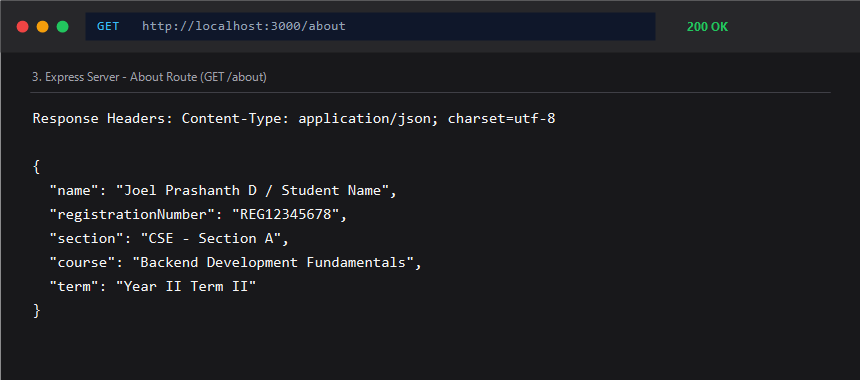
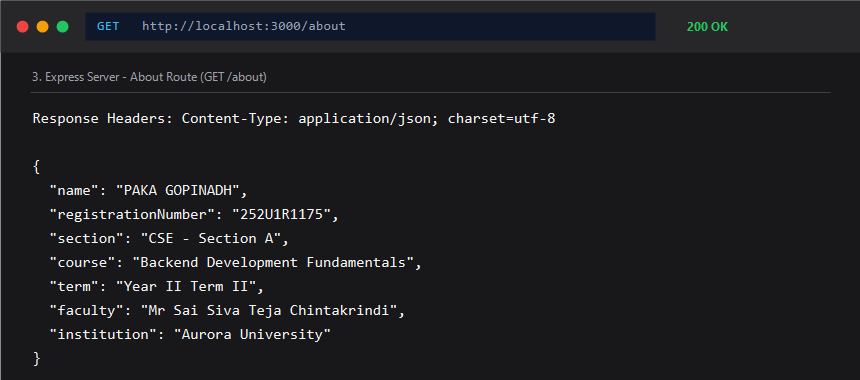
Update student name, registration number, faculty, and institution details

diff --git a/lab-01/index.js b/lab-01/index.js
@@ -19,11 +19,13 @@ app.get('/', (req, res) => {
 // Route: GET /about - JSON with name and section
 app.get('/about', (req, res) => {
   res.status(200).json({
-    name: 'Joel Prashanth D / Student Name',
-    registrationNumber: 'REG12345678',
+    name: 'PAKA GOPINADH',
+    registrationNumber: '252U1R1175',
     section: 'CSE - Section A',
     course: 'Backend Development Fundamentals',
-    term: 'Year II Term II'
+    term: 'Year II Term II',
+    faculty: 'Mr Sai Siva Teja Chintakrindi',
+    institution: 'Aurora University'
   });
 });
 

diff --git a/README.md b/README.md
@@ -1,9 +1,9 @@
 # Backend Development Fundamentals (Year II Term II)
 
-**Student Name:** Joel Prashanth D / [Your Name]  
-**Registration Number:** REG12345678  
-**Faculty:** Joel Prashanth D  
-**Institution:** Aurora  
+**Student Name:** PAKA GOPINADH  
+**Registration Number:** 252U1R1175  
+**Faculty:** Mr Sai Siva Teja Chintakrindi  
+**Institution:** Aurora University  
 
 This repository contains all laboratory exercises for the **Backend Development Fundamentals** course. Each lab has its own dedicated directory with complete source code, tests, documentation, and screenshots.
 

diff --git a/lab-01/README.md b/lab-01/README.md
@@ -1,7 +1,7 @@
 # Lab 1: Node.js and Express server
 
-**Student Name:** Joel Prashanth D / [Your Name] • **Registration Number:** REG12345678 • **Section:** CSE - Section A  
-**Course:** Backend Development Fundamentals (Year II Term II) • **Faculty:** Joel Prashanth D
+**Student Name:** PAKA GOPINADH • **Registration Number:** 252U1R1175 • **Section:** CSE - Section A  
+**Course:** Backend Development Fundamentals (Year II Term II) • **Faculty:** Mr Sai Siva Teja Chintakrindi • **Institution:** Aurora University
 
 ---
 
